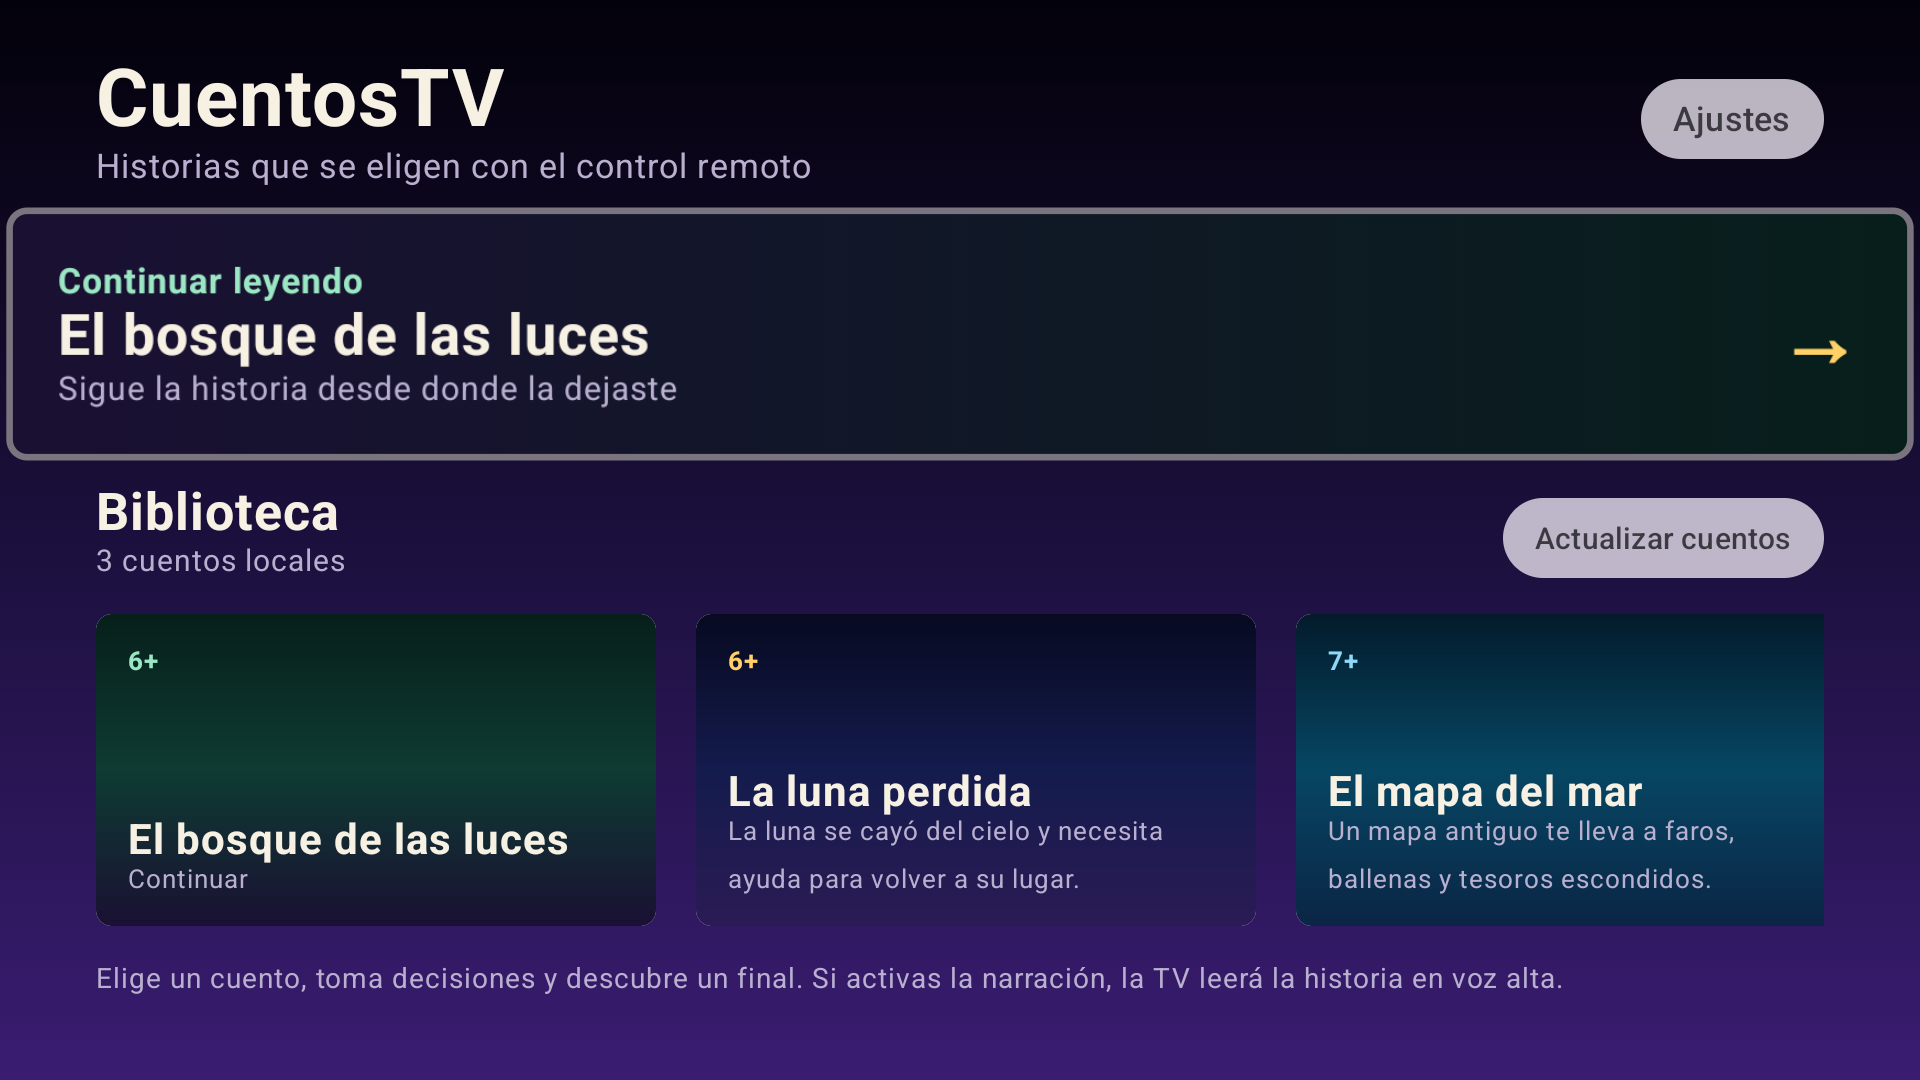
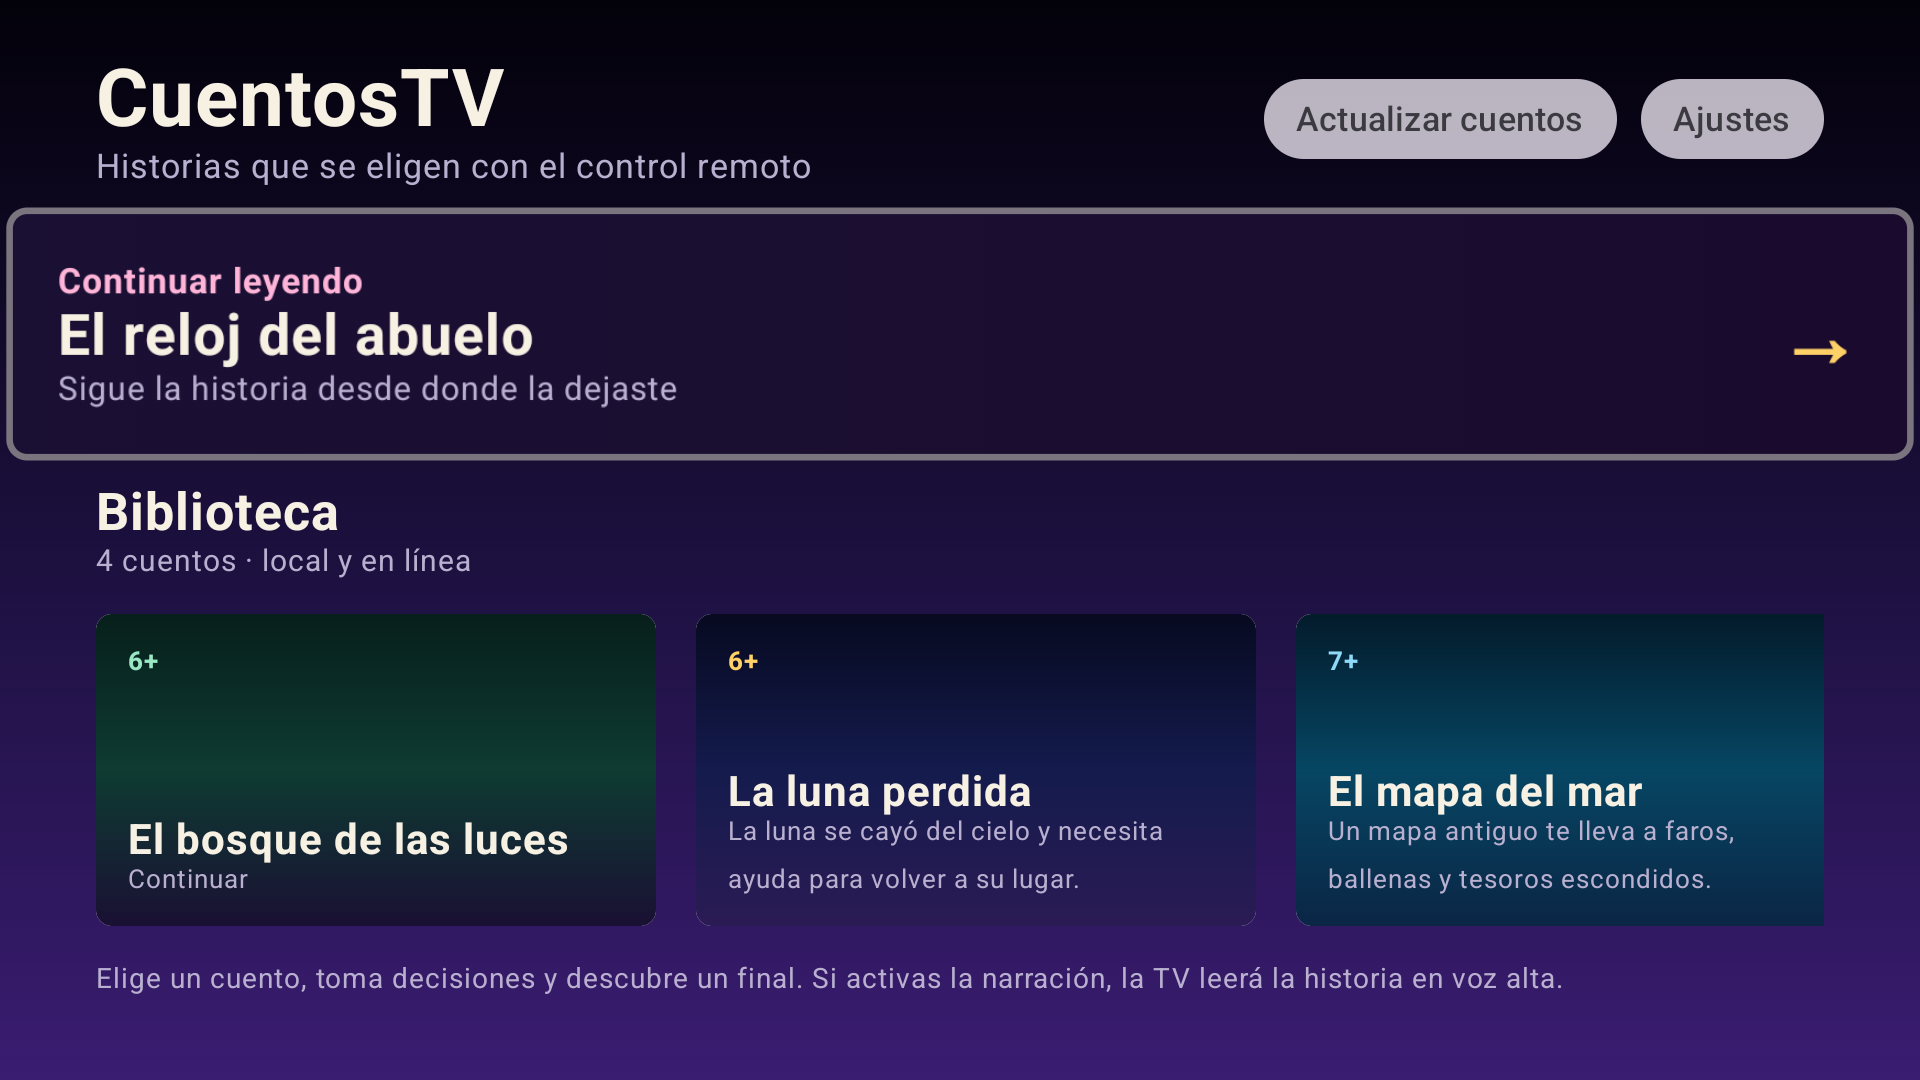
Ajustes de UI en TV y prueba del catalogo remoto
- Boton de actualizar cuentos en el encabezado, junto a Ajustes
- Lector con encabezado fijo y textos con elipsis
- Progreso se limpia al llegar a un final
- Aviso cuando el televisor no tiene voz en espanol
- Manifest de debug para probar el catalogo con un servidor local
- Documentacion, capturas y APK de dist

diff --git a/app/src/main/java/com/ejemplo/cuentostv/ui/screens/HomeScreen.kt b/app/src/main/java/com/ejemplo/cuentostv/ui/screens/HomeScreen.kt
@@ -95,7 +95,19 @@ fun HomeScreen(
                             fontSize = 17.sp
                         )
                     }
-                    Button(onClick = onSettings) {
+                    Button(
+                        onClick = onRefresh,
+                        enabled = !state.isRefreshing
+                    ) {
+                        Text(
+                            text = if (state.isRefreshing) "Actualizando..." else "Actualizar cuentos",
+                            fontSize = 17.sp
+                        )
+                    }
+                    Button(
+                        onClick = onSettings,
+                        modifier = Modifier.padding(start = 12.dp)
+                    ) {
                         Text("Ajustes", fontSize = 17.sp)
                     }
                 }
@@ -115,36 +127,22 @@ fun HomeScreen(
             }
 
             item {
-                Row(
-                    modifier = Modifier.fillMaxWidth(),
-                    verticalAlignment = Alignment.Bottom
-                ) {
-                    Column(modifier = Modifier.weight(1f)) {
-                        Text(
-                            text = "Biblioteca",
-                            color = TvText,
-                            fontSize = 26.sp,
-                            fontWeight = FontWeight.Bold
-                        )
-                        Text(
-                            text = if (state.remoteAvailable) {
-                                "${state.stories.size} cuentos · local y en línea"
-                            } else {
-                                "${state.stories.size} cuentos locales"
-                            },
-                            color = TvMuted,
-                            fontSize = 15.sp
-                        )
-                    }
-                    Button(
-                        onClick = onRefresh,
-                        enabled = !state.isRefreshing
-                    ) {
-                        Text(
-                            text = if (state.isRefreshing) "Actualizando..." else "Actualizar cuentos",
-                            fontSize = 15.sp
-                        )
-                    }
+                Column(modifier = Modifier.fillMaxWidth()) {
+                    Text(
+                        text = "Biblioteca",
+                        color = TvText,
+                        fontSize = 26.sp,
+                        fontWeight = FontWeight.Bold
+                    )
+                    Text(
+                        text = if (state.remoteAvailable) {
+                            "${state.stories.size} cuentos · local y en línea"
+                        } else {
+                            "${state.stories.size} cuentos locales"
+                        },
+                        color = TvMuted,
+                        fontSize = 15.sp
+                    )
                 }
             }
 

diff --git a/README.md b/README.md
@@ -139,6 +139,19 @@ Si cambia el propietario o el nombre del repositorio, solo hay que actualizar
 `CONTENT_BASE` y volver a compilar. El catálogo remoto de ejemplo incluye el
 cuento **El reloj del abuelo**.
 
+### Probar sin publicar en GitHub
+
+La variante `debug` permite HTTP en claro para usar un servidor local:
+
+```powershell
+# en la raíz del proyecto
+python -m http.server 8000 --bind 127.0.0.1
+```
+
+Cambia `CONTENT_BASE` a `http://10.0.2.2:8000/tv-content` (la IP del host desde
+el emulador), compila, entra a la app y pulsa **Actualizar cuentos**. Después
+vuelve a la URL de GitHub antes de generar el APK final.
+
 ### Formato
 
 Ver [`docs/esquema-cuentos.md`](docs/esquema-cuentos.md). Resumen:
